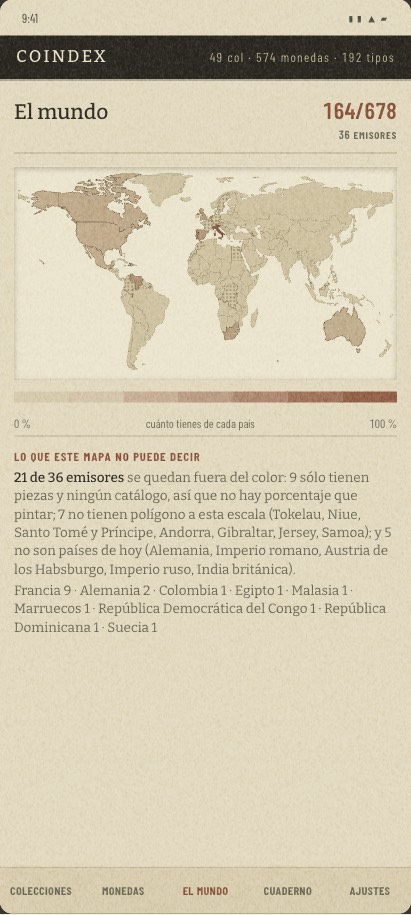
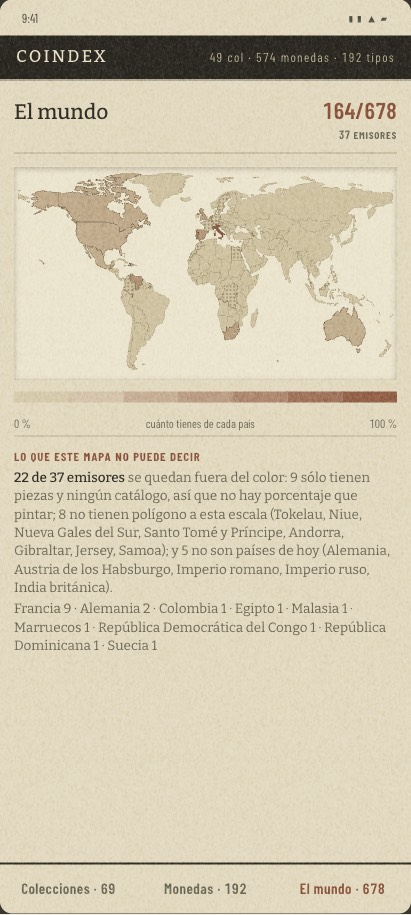
docs: la barra de jerarquías son dos celdas, no cuatro cubos (#315)
Las capturas dibujaban un pie de cuatro cubos que la app no tiene:
`HierarchyBar` cruza Colecciones ↔ Monedas y nada más — Ajustes cuelga de
la cabecera y el cuaderno no es un destino, es la exportación del índice.
Rehechas las once capturas con la barra de verdad y con su recuento.

De paso, el estante pierde el botón «cerrar»: la fila entera ya es el
control, así que la palabra era un segundo mando para lo mismo.

Claude-Session: https://claude.ai/code/session_014ek8J2NZNcXYRnUmaMHyRZ

Changed region(s): [[0.0292, 0.5202, 0.9635, 0.7344], [0.0, 0.918, 1.0, 0.9792]]

diff --git a/docs/ux/atlas-315.md b/docs/ux/atlas-315.md
@@ -8,8 +8,8 @@ por el dominio de verdad — `Curation.assemble` y `buildCollectionCatalogAlbum`
 
 **La colección entera de una vez no es una pantalla nueva: es el cuaderno con otro eje.** La mancha
 de países y el eje de años son dos órdenes de la misma hoja de álbum, elegidos en el estante plegado
-que la app ya tiene (ADR 0021 §1). **El primer nivel no crece**, y el pie sigue teniendo cuatro
-cubos.
+que la app ya tiene (ADR 0021 §1). **El primer nivel no crece**: la barra de jerarquías sigue siendo
+dos mitades de una raya, «Colecciones · 69» y «Monedas · 192».
 
 ## Antes de dibujar: tres premisas del ticket estaban mal
 
@@ -63,6 +63,10 @@ nadie tiene que aprender nada. El estante nace plegado, y cerrarlo paga en sitio
 un cuarto de pantalla menos. Plegado nombra el eje sólo cuando no es el de siempre, que es la regla
 que `shelfSummary` ya aplica al orden; abierto no lo nombra, porque la pestañita está a la vista.
 
+**Y el estante no lleva botón de «cerrar»**: la fila entera es el control, así que la palabra era un
+segundo mando para lo mismo. Una cadena menos de las 176 que censó el
+[#297](https://github.com/jenarvaezg/coindex/issues/297).
+
 ### El eje por año tiene tres estados, no dos
 
 Moneda si tiene algo de ese año, **hueco fantasma** si alguna lámina nombra ese año y no lo tiene, y
@@ -115,7 +119,7 @@ pasa de 36 a **37 emisores**.
 | **La tira de años con roturas** | 2,31 pantallas y 58 palabras, porque «10 años sin nada que buscar» se repite veinte veces y cada rotura gasta una fila entera. Los rótulos de dos cifras («80», «91», «13») son ambiguos entre siglos. |
 | **La tabla de países** | Una pantalla, 26 palabras y **cero monedas**: el cuadro de mandos que prohíbe `spec.md §0.4`, en ropa de papel. Sirvió de control: prueba que los datos caben en una pantalla, y que lo que la hoja añade es ver monedas en vez de porcentajes. |
 | **Llamar «láminas» al cubo de Colecciones** | **20 de las 69 tarjetas del índice del padre no tienen lámina que abrir** (`plateCatalogId` nulo): «100 francs Egalité», «5 francs Semeuse», «Alemanas de plata de ley»… En la de Jose son 4 de 47. El nombre prometería una lámina al 29 % de sus tarjetas, y el glosario de `CONTEXT.md` reserva *plate* para la lámina **de un catálogo**. |
-| **Un quinto cubo en el pie** | Cabe —cinco versalitas de 13,5 px en 411 dp— y no hace falta: si la hoja necesita un nombre que compita con «Colecciones», es que no es un destino. |
+| **Una tercera celda en la barra** | La barra de jerarquías son **dos** celdas con su recuento, no cuatro cubos: `HierarchyBar` sólo cruza Colecciones ↔ Monedas, Ajustes cuelga de la cabecera y **el cuaderno no es un destino sino la exportación**. Una tercera celda tendría que traer su propio recuento, y el de la hoja son casillas —«El mundo · 678»—, que es otro grano que las tarjetas y los tipos. Y hubo que ponerle un nombre: el único que servía, «tu colección», competía con «Colecciones». Si una pantalla necesita un nombre que pelea con el que ya hay, no es una pantalla. |
 
 ![El mapa del mundo: 15 emisores coloreados y 81 palabras de disculpa](atlas-315/descarte-mapa.jpg)
 ![Los mapitas: 56 dp por emisor para decir lo que dice el rótulo](atlas-315/descarte-mapitas.jpg)
@@ -127,6 +131,11 @@ pasa de 36 a **37 emisores**.
 
 - **El ADR 0021 no se enmienda por esto.** El primer nivel no crece: la hoja es Colecciones con el
   eje puesto. Lo que sí gana el estante es una faceta —el eje—, y eso es §1, no §2.
+- **Corrección de esta misma sesión**: las primeras capturas dibujaban un pie de cuatro cubos
+  —«colecciones · monedas · cuaderno · ajustes»— que **la app no tiene**. Están rehechas con
+  `HierarchyBar`. El cuaderno impreso no se toca: sigue siendo la exportación del índice
+  («Exportar N láminas», #228), que el [#305](https://github.com/jenarvaezg/coindex/issues/305) bajó
+  a la regleta.
   [#317](https://github.com/jenarvaezg/coindex/issues/317) recibe este argumento con el dibujo
   delante.
 - **Los dos años de una pieza** —el grabado y el gregoriano— piden una línea en la especificación,
